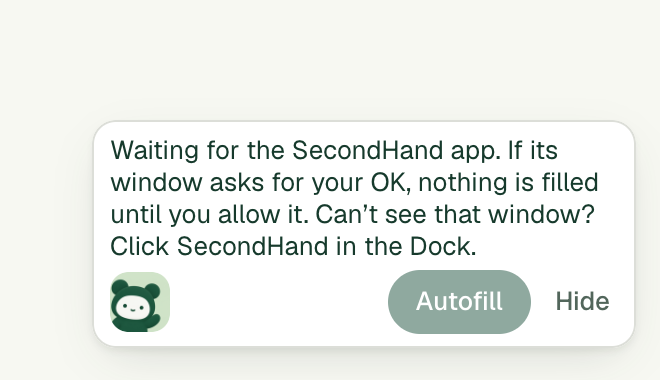
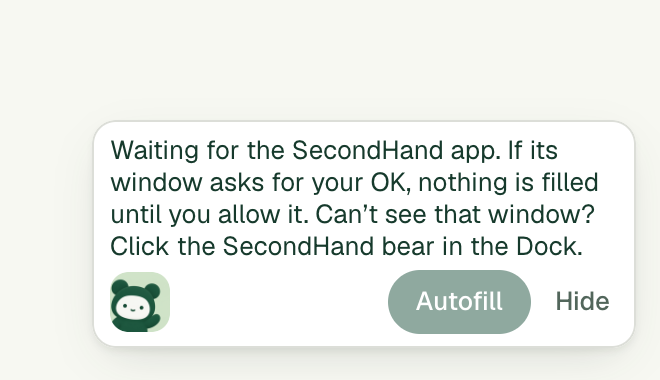
fix: say where the app's window is without the word taskbar
A reviewer on Windows didn't know what the taskbar was, at the moment he was
stuck. The waiting line now says "Click the SecondHand bear at the bottom of your
screen" on Windows and "Click the SecondHand bear in the Dock" on a Mac; the
app's icon is the bear. In French the Windows line ran to an eighth line, past
what the card shows; every language now fits seven.

Changed region(s): [[0.2727, 0.6079, 0.8788, 0.6947]]

diff --git a/extension/strings.js b/extension/strings.js
@@ -153,8 +153,8 @@
     'shortcut.autofillLine': 'Keyboard: {keys} starts Autofill, or stops it.',
     'shortcut.nextLine': '{keys} goes to the next question left.',
     'widget.working': 'Waiting for the SecondHand app. If its window asks for your OK, nothing is filled until you allow it.',
-    'widget.findWindowMac': 'Can’t see that window? Click SecondHand in the Dock.',
-    'widget.findWindowWindows': 'Can’t see that window? Click SecondHand in the taskbar.',
+    'widget.findWindowMac': 'Can’t see that window? Click the SecondHand bear in the Dock.',
+    'widget.findWindowWindows': 'Can’t see that window? Click the SecondHand bear at the bottom of your screen.',
     'widget.findWindow': 'Can’t see that window? It may be behind Chrome.',
     'widget.aiUnavailable': 'Chrome’s AI isn’t available, so nothing was guessed.',
     'widget.needYou': { one: '{count} question left', other: '{count} questions left' },
@@ -655,8 +655,8 @@
     'shortcut.autofillLine': 'Teclado: {keys} inicia el autocompletado o lo detiene.',
     'shortcut.nextLine': '{keys} lleva a la siguiente pregunta que falta.',
     'widget.working': 'Esperando a la aplicación SecondHand. Si abre una ventana para pedirle permiso, no se llena nada hasta que usted lo permita. Está en inglés: “Allow once” es solo esta vez; “Always allow on this computer”, siempre.',
-    'widget.findWindowMac': '¿No ve la ventana? Haga clic en SecondHand en el Dock.',
-    'widget.findWindowWindows': '¿No ve la ventana? Haga clic en SecondHand en la barra de tareas.',
+    'widget.findWindowMac': '¿No la ve? Haga clic en el oso de SecondHand en el Dock.',
+    'widget.findWindowWindows': '¿No la ve? Haga clic en el oso de SecondHand, abajo en la pantalla.',
     'widget.findWindow': '¿No ve la ventana? Puede estar detrás de Chrome.',
     'widget.aiUnavailable': 'La inteligencia artificial de Chrome no está disponible, así que no se adivinó nada.',
     'widget.needYou': { one: 'Falta {count}', other: 'Faltan {count}' },
@@ -1151,8 +1151,8 @@
     'shortcut.autofillLine': 'Bàn phím: {keys} bắt đầu hoặc dừng Tự điền.',
     'shortcut.nextLine': '{keys} chuyển đến câu hỏi còn lại tiếp theo.',
     'widget.working': 'Đang chờ ứng dụng SecondHand. Nếu cửa sổ của nó xin phép bạn, sẽ không có gì được điền cho đến khi bạn cho phép. Cửa sổ bằng tiếng Anh: “Allow once” là chỉ lần này; “Always allow on this computer” là luôn luôn.',
-    'widget.findWindowMac': 'Không thấy cửa sổ? Hãy bấm SecondHand trên Dock.',
-    'widget.findWindowWindows': 'Không thấy cửa sổ? Hãy bấm SecondHand trên thanh tác vụ.',
+    'widget.findWindowMac': 'Không thấy cửa sổ? Hãy bấm chú gấu SecondHand trên Dock.',
+    'widget.findWindowWindows': 'Không thấy cửa sổ? Hãy bấm chú gấu SecondHand ở cuối màn hình.',
     'widget.findWindow': 'Không thấy cửa sổ? Nó có thể nằm sau Chrome.',
     'widget.aiUnavailable': 'AI của Chrome không khả dụng nên không có gì được đoán.',
     'widget.needYou': { one: '{count} mục cần bạn', other: '{count} mục cần bạn' },
@@ -1648,8 +1648,8 @@
     'shortcut.autofillLine': '键盘：{keys} 开始或停止自动填写。',
     'shortcut.nextLine': '{keys} 前往下一个剩下的问题。',
     'widget.working': '正在等待 SecondHand 应用。如果它的窗口请求您的同意，在您允许之前不会填写任何内容。窗口为英文：“Allow once”是仅此一次，“Always allow on this computer”是始终允许。',
-    'widget.findWindowMac': '看不到窗口？请点击程序坞中的 SecondHand。',
-    'widget.findWindowWindows': '看不到窗口？请点击任务栏中的 SecondHand。',
+    'widget.findWindowMac': '看不到窗口？请点击程序坞中的 SecondHand 小熊。',
+    'widget.findWindowWindows': '看不到窗口？请点击屏幕底部的 SecondHand 小熊。',
     'widget.findWindow': '看不到窗口？它可能在 Chrome 后面。',
     'widget.aiUnavailable': 'Chrome 的 AI 不可用，因此没有进行推测。',
     'widget.needYou': { one: '{count} 项需要您处理', other: '{count} 项需要您处理' },
@@ -2145,8 +2145,8 @@
     'shortcut.autofillLine': 'Clavier : {keys} lance le remplissage ou l’arrête.',
     'shortcut.nextLine': '{keys} mène à la prochaine question qui reste.',
     'widget.working': 'En attente de l’application SecondHand. Si sa fenêtre demande votre accord, rien n’est rempli avant que vous l’autorisiez. Elle est en anglais : « Allow once » pour cette fois, « Always allow on this computer » pour toujours.',
-    'widget.findWindowMac': 'Vous ne la voyez pas ? Cliquez sur SecondHand dans le Dock.',
-    'widget.findWindowWindows': 'Vous ne la voyez pas ? Cliquez sur SecondHand dans la barre des tâches.',
+    'widget.findWindowMac': 'Pas de fenêtre ? Cliquez sur l’ours SecondHand dans le Dock.',
+    'widget.findWindowWindows': 'Vous ne la voyez pas ? Cliquez sur l’ours SecondHand, en bas.',
     'widget.findWindow': 'Vous ne la voyez pas ? Elle est peut-être derrière Chrome.',
     'widget.aiUnavailable': 'L’IA de Chrome n’est pas disponible : rien n’a été deviné.',
     'widget.needYou': { one: '{count} à faire', other: '{count} à faire' },
@@ -2642,8 +2642,8 @@
     'shortcut.autofillLine': 'لوحة المفاتيح: {keys} يبدأ التعبئة التلقائية أو يوقفها.',
     'shortcut.nextLine': '{keys} ينتقل إلى السؤال المتبقي التالي.',
     'widget.working': 'بانتظار تطبيق SecondHand. إذا طلبت نافذته موافقتك، فلن يُعبّأ شيء حتى تسمح بذلك. النافذة بالإنجليزية: “Allow once” تعني هذه المرة فقط، و“Always allow on this computer” تعني دائمًا.',
-    'widget.findWindowMac': 'لا ترى النافذة؟ انقر على SecondHand في Dock.',
-    'widget.findWindowWindows': 'لا ترى النافذة؟ انقر على SecondHand في شريط المهام.',
+    'widget.findWindowMac': 'لا ترى النافذة؟ انقر على دب SecondHand في Dock.',
+    'widget.findWindowWindows': 'لا ترى النافذة؟ انقر على دب SecondHand في أسفل الشاشة.',
     'widget.findWindow': 'لا ترى النافذة؟ قد تكون خلف Chrome.',
     'widget.aiUnavailable': 'الذكاء الاصطناعي في Chrome غير متاح، لذلك لم يُخمَّن شيء.',
     'widget.needYou': { one: 'بحاجة إليك: {count}', other: 'بحاجة إليك: {count}' },
